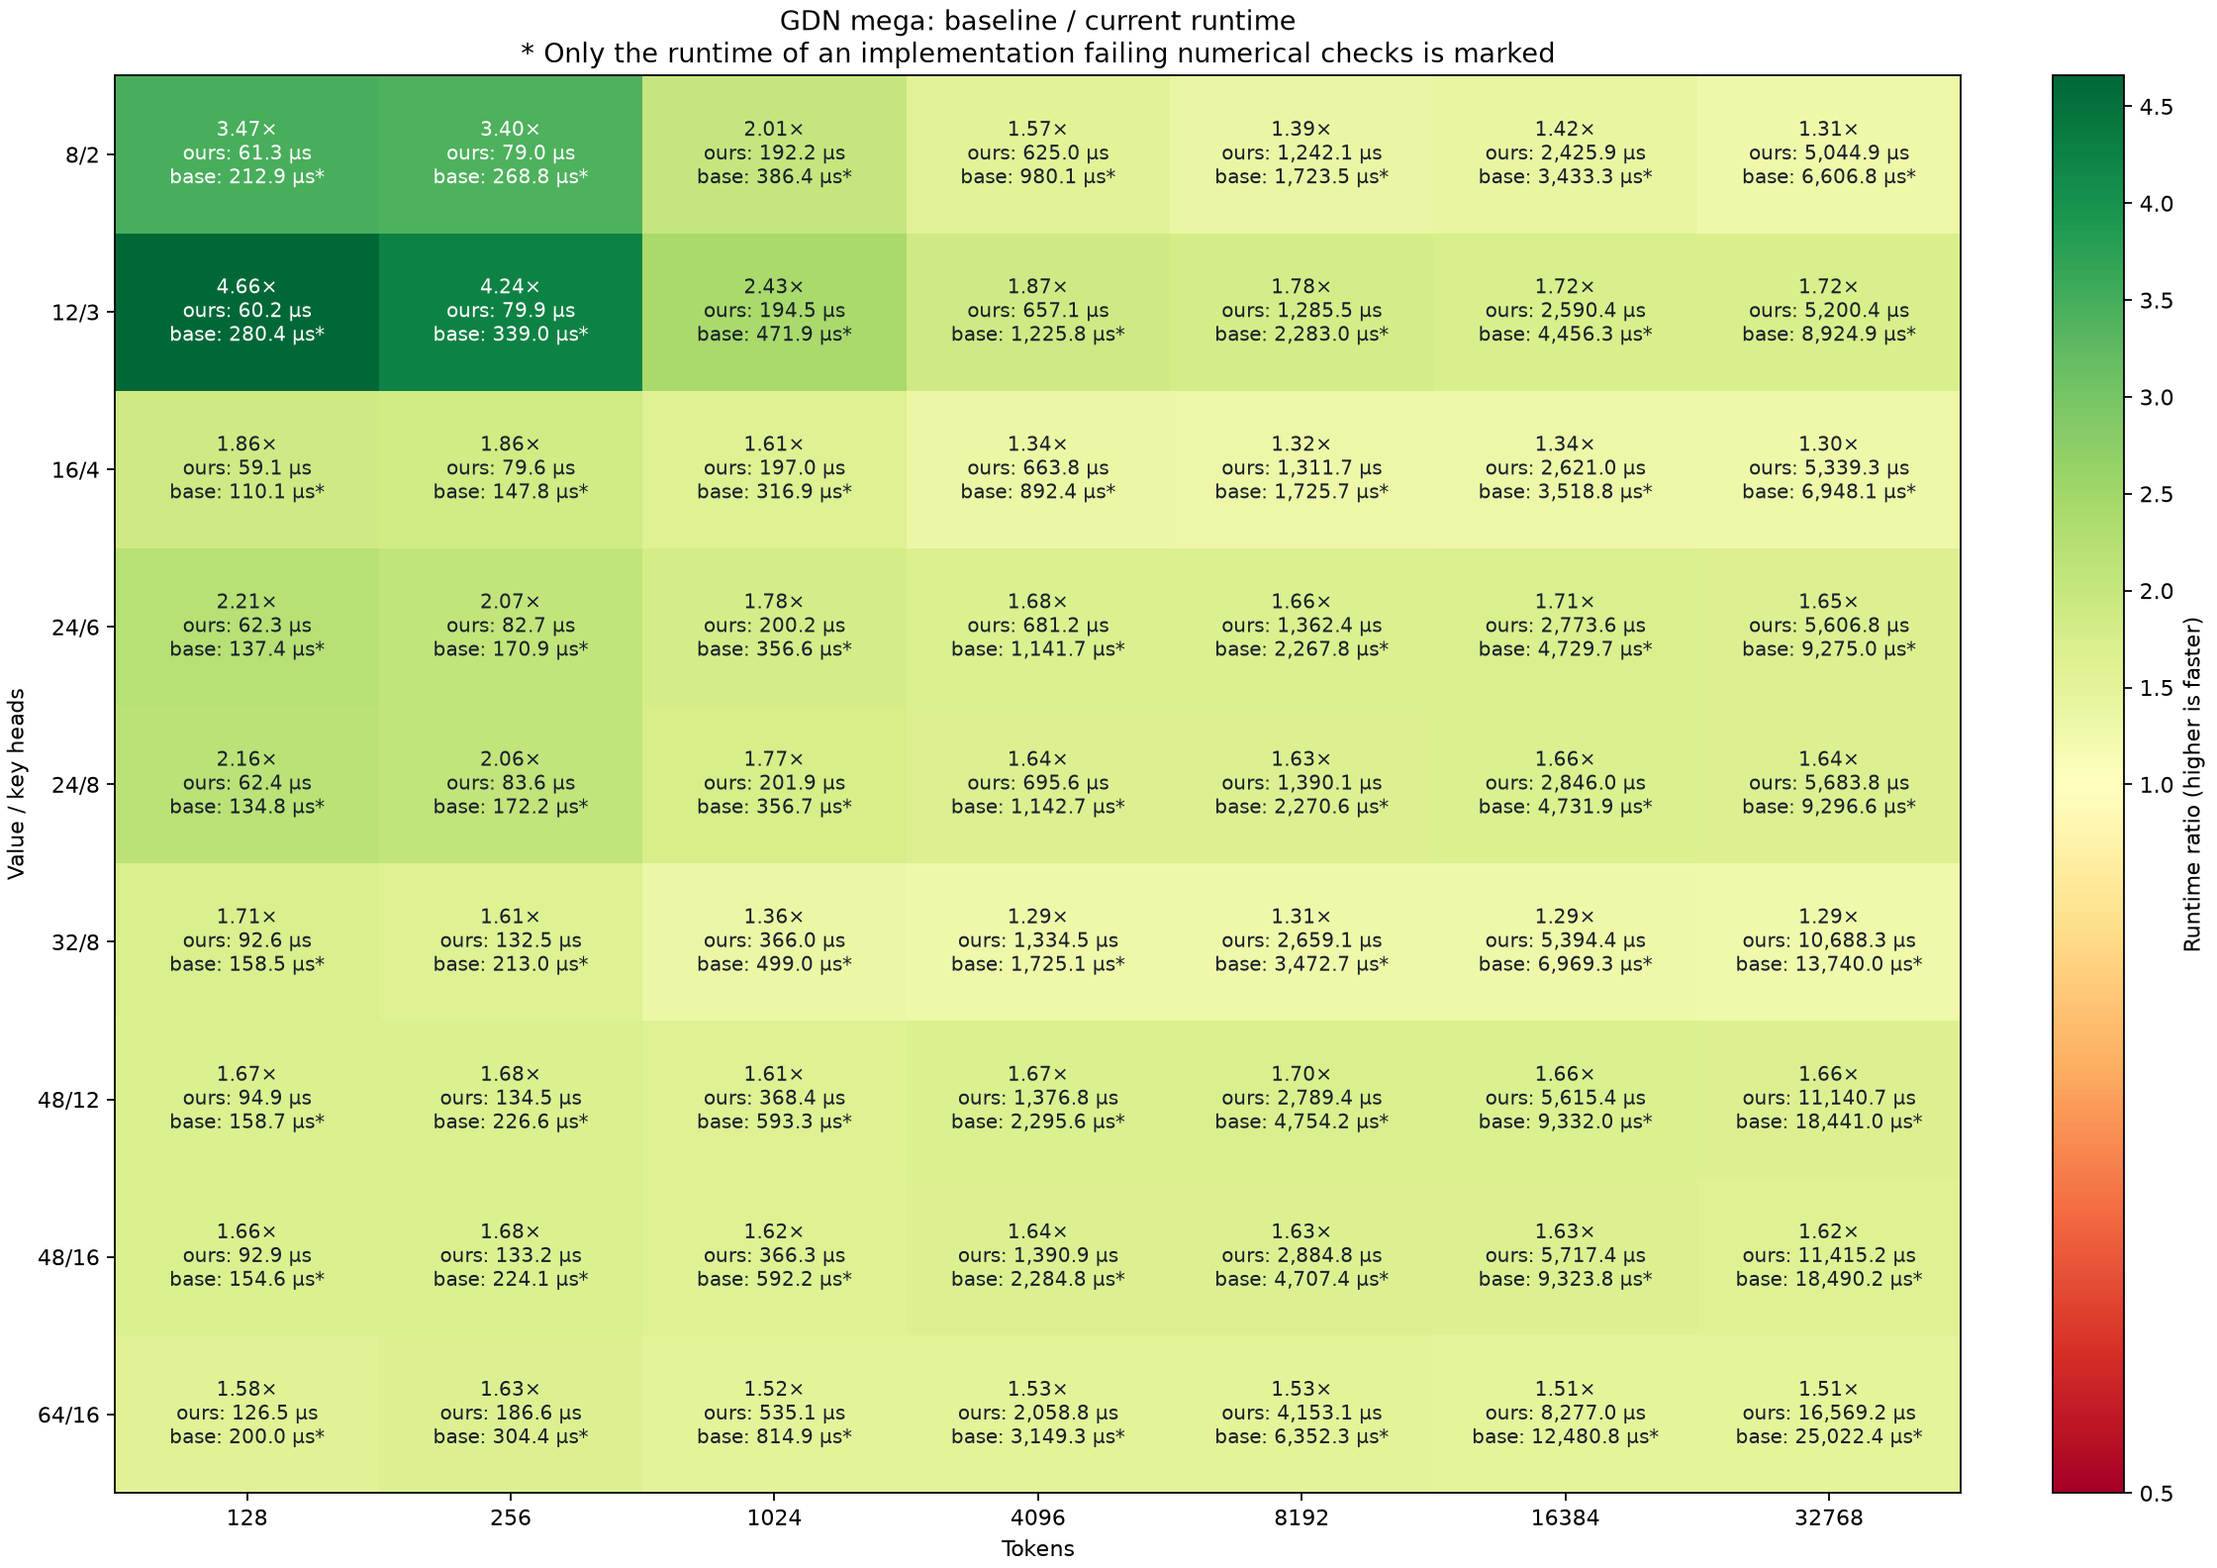
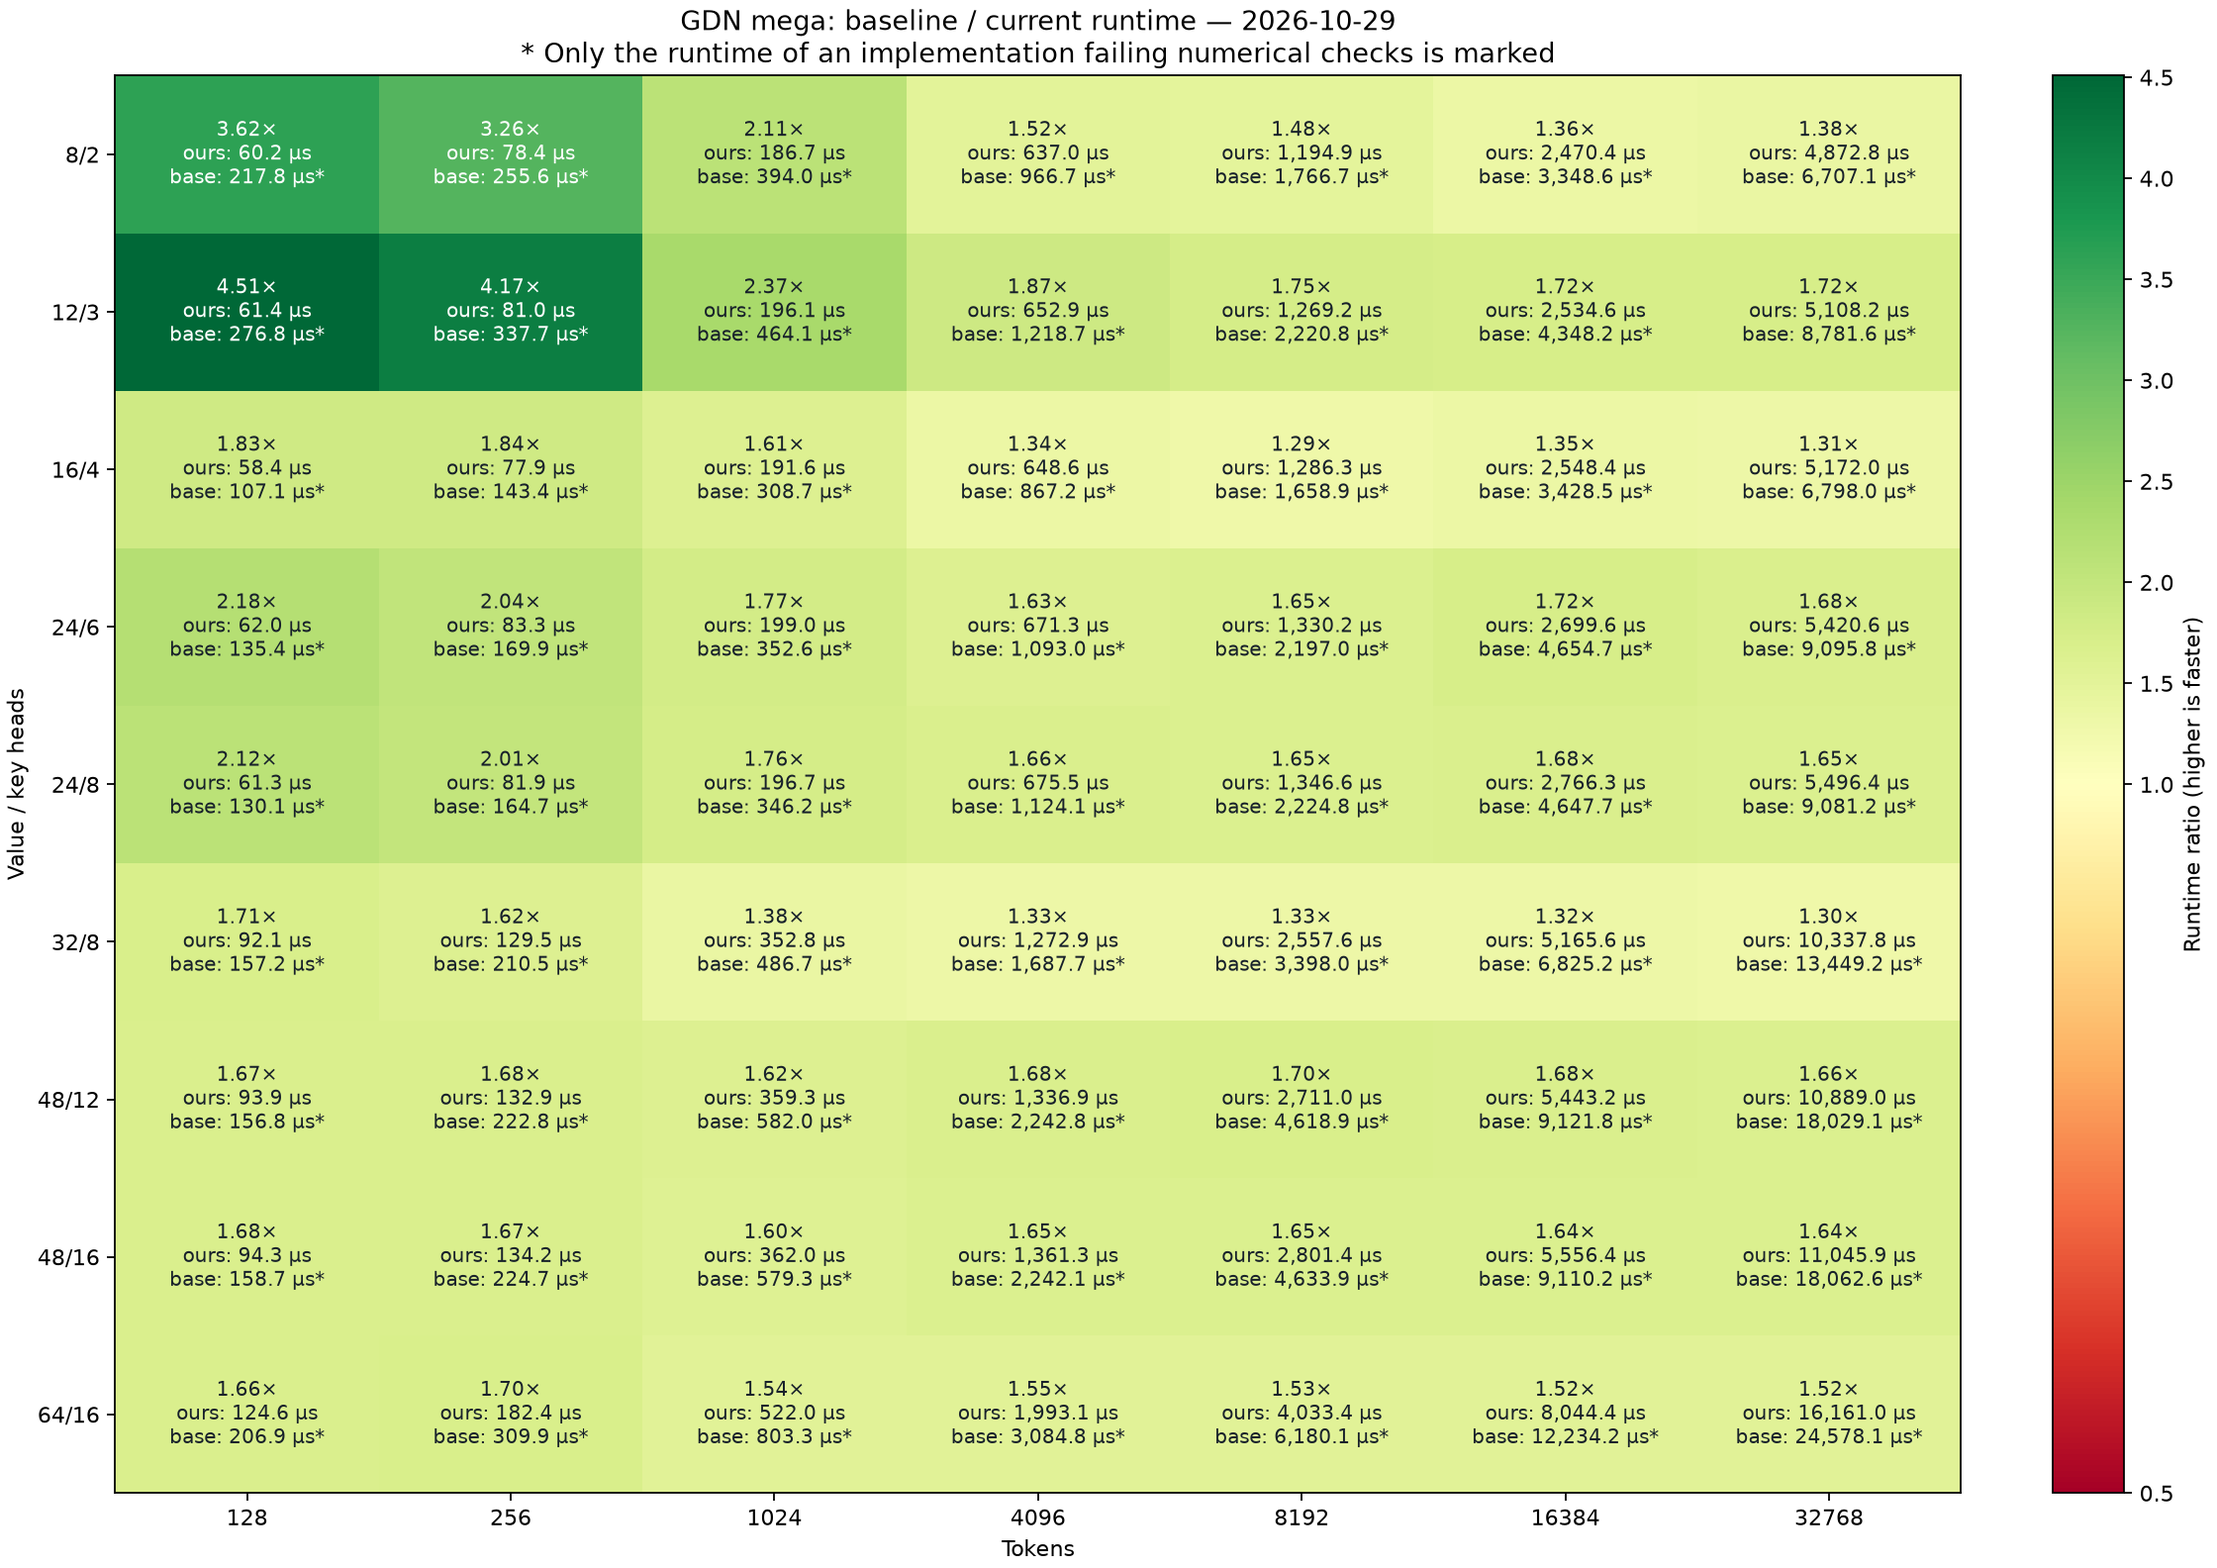
Refresh GDN heatmaps and document preallocated graph timing

diff --git a/benchmarking/gdn_mega.py b/benchmarking/gdn_mega.py
@@ -556,7 +556,7 @@ def render(data, directory):
 
     labels(axis)
     axis.set_title(
-        "GDN mega: baseline / current runtime\n* Only the runtime of an implementation failing numerical checks is marked"
+        f"GDN mega: baseline / current runtime — {data['created_utc'][:10]}\n* Only the runtime of an implementation failing numerical checks is marked"
     )
     fig.colorbar(mesh, ax=axis, label="Runtime ratio (higher is faster)")
     fig.savefig(figures / "heatmap.png", dpi=160)
@@ -604,7 +604,9 @@ def render(data, directory):
                     fontsize=8,
                     color="white" if not np.isfinite(value) or mesh.norm(max(value, lo)) < 0.7 else "#17202a",
                 )
-    fig.suptitle("Maximum absolute raw-output error against CPU FP64 (all checked launches)")
+    fig.suptitle(
+        f"Maximum absolute raw-output error against CPU FP64 — {data['created_utc'][:10]} (all checked launches)"
+    )
     fig.colorbar(mesh, ax=axes, label="max |out − reference|; shared log scale")
     fig.savefig(figures / "error_heatmap_max_abs.png", dpi=160)
     plt.close(fig)
@@ -627,6 +629,8 @@ def render(data, directory):
             )
             + " |\n"
         )
+    trials = data["records"][0]["current"]["trials"]
+    calls = data["records"][0]["current"]["calls_per_trial"]
     latency = f"""# GDN speed heatmap
 
 {scope}
@@ -635,6 +639,38 @@ def render(data, directory):
 Each cell shows runtime ratio and total median µs for both kernels. Asterisks
 mark only failed implementations; those ratios are not accuracy-equivalent
 speedups.
+
+## Benchmark procedure (identical for both libraries)
+
+1. For each shape, generate identical seed-0 inputs and the CPU FP64 reference.
+   Copy inputs to the NPU and allocate outputs, masks, intermediates and all
+   workspace **once**, using the same caller allocation helper for both libraries.
+2. Run five warmup calls, checking raw output and final state after each call.
+3. Capture an NPU graph containing **{calls} consecutive full kernel calls**.
+   Replay that graph once without timing, then synchronize.
+4. Measure **{trials} graph replays** with NPU start/end events. Divide each graph
+   duration by {calls}; report the median of these {trials} per-call averages.
+   This is {trials*calls} timed calls, not individually timed Python-loop calls.
+5. Check output and final state after the final timed replay, outside timing.
+
+All calls reuse the same device addresses and input values. Each starts from
+that shape's original supplied state (or zero when initial state is disabled);
+final state is a separate output and is not fed into the next call. Scratch and
+outputs are reused without external clearing between calls; initialization
+required by the caller contract occurs before warmup.
+
+The timed region covers the complete device kernel and graph execution overhead,
+including the kernel's internal transfers and synchronization. It excludes
+allocation/initialization, host-device input copies, CPU reference computation,
+validation, graph capture and caller-side output scaling. Graph replay amortizes
+submission overhead and avoids per-kernel Python dispatch gaps. No cache flush
+is performed: these are warmed, repeated-buffer timings, not end-to-end request
+latencies or guaranteed cold-cache timings.
+
+Current and baseline run serially in separate processes. Their order alternates
+between head configurations. Loaded-library hashes are verified, and matched
+workers must agree on input/reference hashes, environment and accuracy policy.
+Both libraries are freshly timed, including the original when it fails checks.
 
 ## Current median total microseconds
 

diff --git a/docs/gdn_mega/heatmap.md b/docs/gdn_mega/heatmap.md
@@ -1,6 +1,6 @@
 # GDN speed heatmap
 
-Measured 2026-10-28; baseline library `4bf4218a7473`, current `0bf6f7832dd1`.
+Measured 2026-10-29; baseline library `4bf4218a7473`, current `0bf6f7832dd1`.
 Nonzero initial state: True; seed 0; gate scale 1.0; D=C=128.
 Independent CPU FP64 token recurrence on actual rounded inputs. Every output/state element must satisfy
 `abs(error) <= 0.0001 + 0.001*abs(reference)`, plus finiteness and relative RMSE < 0.005.
@@ -12,19 +12,51 @@ Each cell shows runtime ratio and total median µs for both kernels. Asterisks
 mark only failed implementations; those ratios are not accuracy-equivalent
 speedups.
 
+## Benchmark procedure (identical for both libraries)
+
+1. For each shape, generate identical seed-0 inputs and the CPU FP64 reference.
+   Copy inputs to the NPU and allocate outputs, masks, intermediates and all
+   workspace **once**, using the same caller allocation helper for both libraries.
+2. Run five warmup calls, checking raw output and final state after each call.
+3. Capture an NPU graph containing **20 consecutive full kernel calls**.
+   Replay that graph once without timing, then synchronize.
+4. Measure **15 graph replays** with NPU start/end events. Divide each graph
+   duration by 20; report the median of these 15 per-call averages.
+   This is 300 timed calls, not individually timed Python-loop calls.
+5. Check output and final state after the final timed replay, outside timing.
+
+All calls reuse the same device addresses and input values. Each starts from
+that shape's original supplied state (or zero when initial state is disabled);
+final state is a separate output and is not fed into the next call. Scratch and
+outputs are reused without external clearing between calls; initialization
+required by the caller contract occurs before warmup.
+
+The timed region covers the complete device kernel and graph execution overhead,
+including the kernel's internal transfers and synchronization. It excludes
+allocation/initialization, host-device input copies, CPU reference computation,
+validation, graph capture and caller-side output scaling. Graph replay amortizes
+submission overhead and avoids per-kernel Python dispatch gaps. No cache flush
+is performed: these are warmed, repeated-buffer timings, not end-to-end request
+latencies or guaranteed cold-cache timings.
+
+Current and baseline run serially in separate processes. Their order alternates
+between head configurations. Loaded-library hashes are verified, and matched
+workers must agree on input/reference hashes, environment and accuracy policy.
+Both libraries are freshly timed, including the original when it fails checks.
+
 ## Current median total microseconds
 
 | H/Hg | 128 | 256 | 1024 | 4096 | 8192 | 16384 | 32768 |
 |---|---:|---:|---:|---:|---:|---:|---:|
-| 8/2 | 61.3 | 79.0 | 192.2 | 625.0 | 1242.1 | 2425.9 | 5044.9 |
-| 12/3 | 60.2 | 79.9 | 194.5 | 657.1 | 1285.5 | 2590.4 | 5200.4 |
-| 16/4 | 59.1 | 79.6 | 197.0 | 663.8 | 1311.7 | 2621.0 | 5339.3 |
-| 24/6 | 62.3 | 82.7 | 200.2 | 681.2 | 1362.4 | 2773.6 | 5606.8 |
-| 24/8 | 62.4 | 83.6 | 201.9 | 695.6 | 1390.1 | 2846.0 | 5683.8 |
-| 32/8 | 92.6 | 132.5 | 366.0 | 1334.5 | 2659.1 | 5394.4 | 10688.3 |
-| 48/12 | 94.9 | 134.5 | 368.4 | 1376.8 | 2789.4 | 5615.4 | 11140.7 |
-| 48/16 | 92.9 | 133.2 | 366.3 | 1390.9 | 2884.8 | 5717.4 | 11415.2 |
-| 64/16 | 126.5 | 186.6 | 535.1 | 2058.8 | 4153.1 | 8277.0 | 16569.2 |
+| 8/2 | 60.2 | 78.4 | 186.7 | 637.0 | 1194.9 | 2470.4 | 4872.8 |
+| 12/3 | 61.4 | 81.0 | 196.1 | 652.9 | 1269.2 | 2534.6 | 5108.2 |
+| 16/4 | 58.4 | 77.9 | 191.6 | 648.6 | 1286.3 | 2548.4 | 5172.0 |
+| 24/6 | 62.0 | 83.3 | 199.0 | 671.3 | 1330.2 | 2699.6 | 5420.6 |
+| 24/8 | 61.3 | 81.9 | 196.7 | 675.5 | 1346.6 | 2766.3 | 5496.4 |
+| 32/8 | 92.1 | 129.5 | 352.8 | 1272.9 | 2557.6 | 5165.6 | 10337.8 |
+| 48/12 | 93.9 | 132.9 | 359.3 | 1336.9 | 2711.0 | 5443.2 | 10889.0 |
+| 48/16 | 94.3 | 134.2 | 362.0 | 1361.3 | 2801.4 | 5556.4 | 11045.9 |
+| 64/16 | 124.6 | 182.4 | 522.0 | 1993.1 | 4033.4 | 8044.4 | 16161.0 |
 
 ## Scheduling tradeoff
 

diff --git a/docs/gdn_mega/README.md b/docs/gdn_mega/README.md
@@ -146,11 +146,28 @@ as `--baseline-lib`. That historical binary is not shipped in the repository;
 it must be built from the historical source. Any other compatible library can
 be supplied, and both hashes are recorded. Rendering does not require an NPU.
 
-Default timing is the median of 15 trials × 20 device-graph calls, after five
-checked warmups. Allocation and CPU oracle/check time are excluded. Shape,
-initial state, gate scale and timing repetitions are CLI arguments; see `--help`.
-Each worker verifies its loaded binary and records input/oracle identities.
-Matched workers must agree on inputs, reference, environment and policy.
+For **each shape and each implementation**, inputs are generated/transferred
+and all outputs, masks, intermediates and workspace are allocated once using
+the same caller helper. Five calls warm the kernel, with FP64 output/state
+checks after each. The benchmark then captures 20 calls in an NPU graph, performs
+one untimed replay and synchronizes. It times 15 graph replays with NPU events,
+divides each elapsed graph time by 20, and reports the median of those 15 averages
+(300 timed calls). Output/state are checked again after the final replay.
+
+Every call reuses the same allocations and input values. The original supplied
+initial state is reused, not the previous call's final state. Outputs and scratch
+are not externally cleared between calls; caller-required initialization happens
+before warmup. Kernel-internal computation, transfers and synchronization are
+timed. Allocation, input transfer, CPU oracle/checks, graph capture and the
+caller's output scaling are excluded. Graph execution overhead remains, but
+per-call Python dispatch is avoided. There is no cache flush, so this measures
+warmed repeated-buffer device performance rather than end-to-end request latency.
+
+Current and original use separate serial worker processes; their order alternates
+by head pair. Both are freshly timed. Workers verify loaded-library hashes and
+must agree on input/reference hashes, environment and policy. Shape, initial
+state, gate scale and repetitions are CLI arguments; see `--help` and the
+[heatmap's benchmark procedure](heatmap.md#benchmark-procedure-identical-for-both-libraries).
 
 Both figures use the same checked runs. Error cells show the maximum over all
 checked warmups and the post-timing check; raw output and final state are both

diff --git a/success.md b/success.md
@@ -896,3 +896,21 @@ screen passes in 2.44s. All seven heads build in 10.40s. Verified standalone and
 matched timing, failure exit status, both report renderers, hardware/simulator
 FP64 checks and traceviz rendering. Temporary builds, copied tools and obsolete
 raw profile artifacts were removed; reusable goldens and user captures remain.
+
+## 2026-10-29 — fresh full heatmap and timing documentation
+
+Reran all 63 matched shapes (nine head pairs, 128–32K tokens) on the unchanged
+uniform kernel `f381ae8`. Current passes every output/state elementwise check
+after five warmups and the final timed replay; original `10748eb` passes 0/63
+under the current policy, with its measured runtimes retained and marked.
+Maximum current raw-output error is 4.846e-4 (worst tolerance ratio 0.440);
+maximum final-state error is 2.441e-4. Library and input/oracle fingerprints,
+environment, trial counts and all checked phases were verified.
+
+Regenerated both PNGs and reports, dated 2026-10-29. Documented identical
+preallocation, buffer/state reuse, five warmups, 20-call graph capture, one
+untimed replay and 15 event-timed replays (median per-call batch average).
+Allocation, input copies, graph capture and checks are excluded; no cache
+flush or external scratch clearing occurs between calls. Median current
+latency is 2.3% below yesterday's grid; this is run variation, not a kernel
+optimization. Timing and validation functions are unchanged.

diff --git a/memory.md b/memory.md
@@ -918,3 +918,18 @@ benefit note. Full speed grid is refreshed on installed uniform binary:63/63 cur
 pass; original10748eb fails63/63 but retains measured runtimes.
 Profiler diagnostic generator adapted and smoke check passes. Old profile and
 error figures retain their explicit historical checkpoint labels.
+
+## 2026-10-29 — heatmap rerun and timing contract
+
+Fresh full grid is in ignored `benchmark_data/gdn_mega/heatmap.json`; both
+committed PNGs/Markdown reports now show 2026-10-29. Current library
+`0bf6f7832dd1` passes 63/63; original `4bf4218a7473` fails 63/63 but is timed.
+All input/reference/environment identities match. No kernel or timing changes.
+
+Timing uses preallocated/reused inputs, outputs and workspace, the same initial
+state on every call, five checked warmups, a 20-call graph and one untimed
+replay, then 15 NPU-event timings divided by 20; report their median.
+No external clearing or cache flush between calls. Final timed output/state
+are checked outside timing. README and generated heatmap.md explain this.
+Current medians differ from the October 28 run by -4.6% to +2.0% across cells
+(median -2.3%); do not attribute these variations to an optimization.

diff --git a/docs/gdn_mega/error_heatmap.md b/docs/gdn_mega/error_heatmap.md
@@ -1,6 +1,6 @@
 # GDN absolute-error heatmap
 
-Measured 2026-10-28; baseline library `4bf4218a7473`, current `0bf6f7832dd1`.
+Measured 2026-10-29; baseline library `4bf4218a7473`, current `0bf6f7832dd1`.
 Nonzero initial state: True; seed 0; gate scale 1.0; D=C=128.
 Independent CPU FP64 token recurrence on actual rounded inputs. Every output/state element must satisfy
 `abs(error) <= 0.0001 + 0.001*abs(reference)`, plus finiteness and relative RMSE < 0.005.
